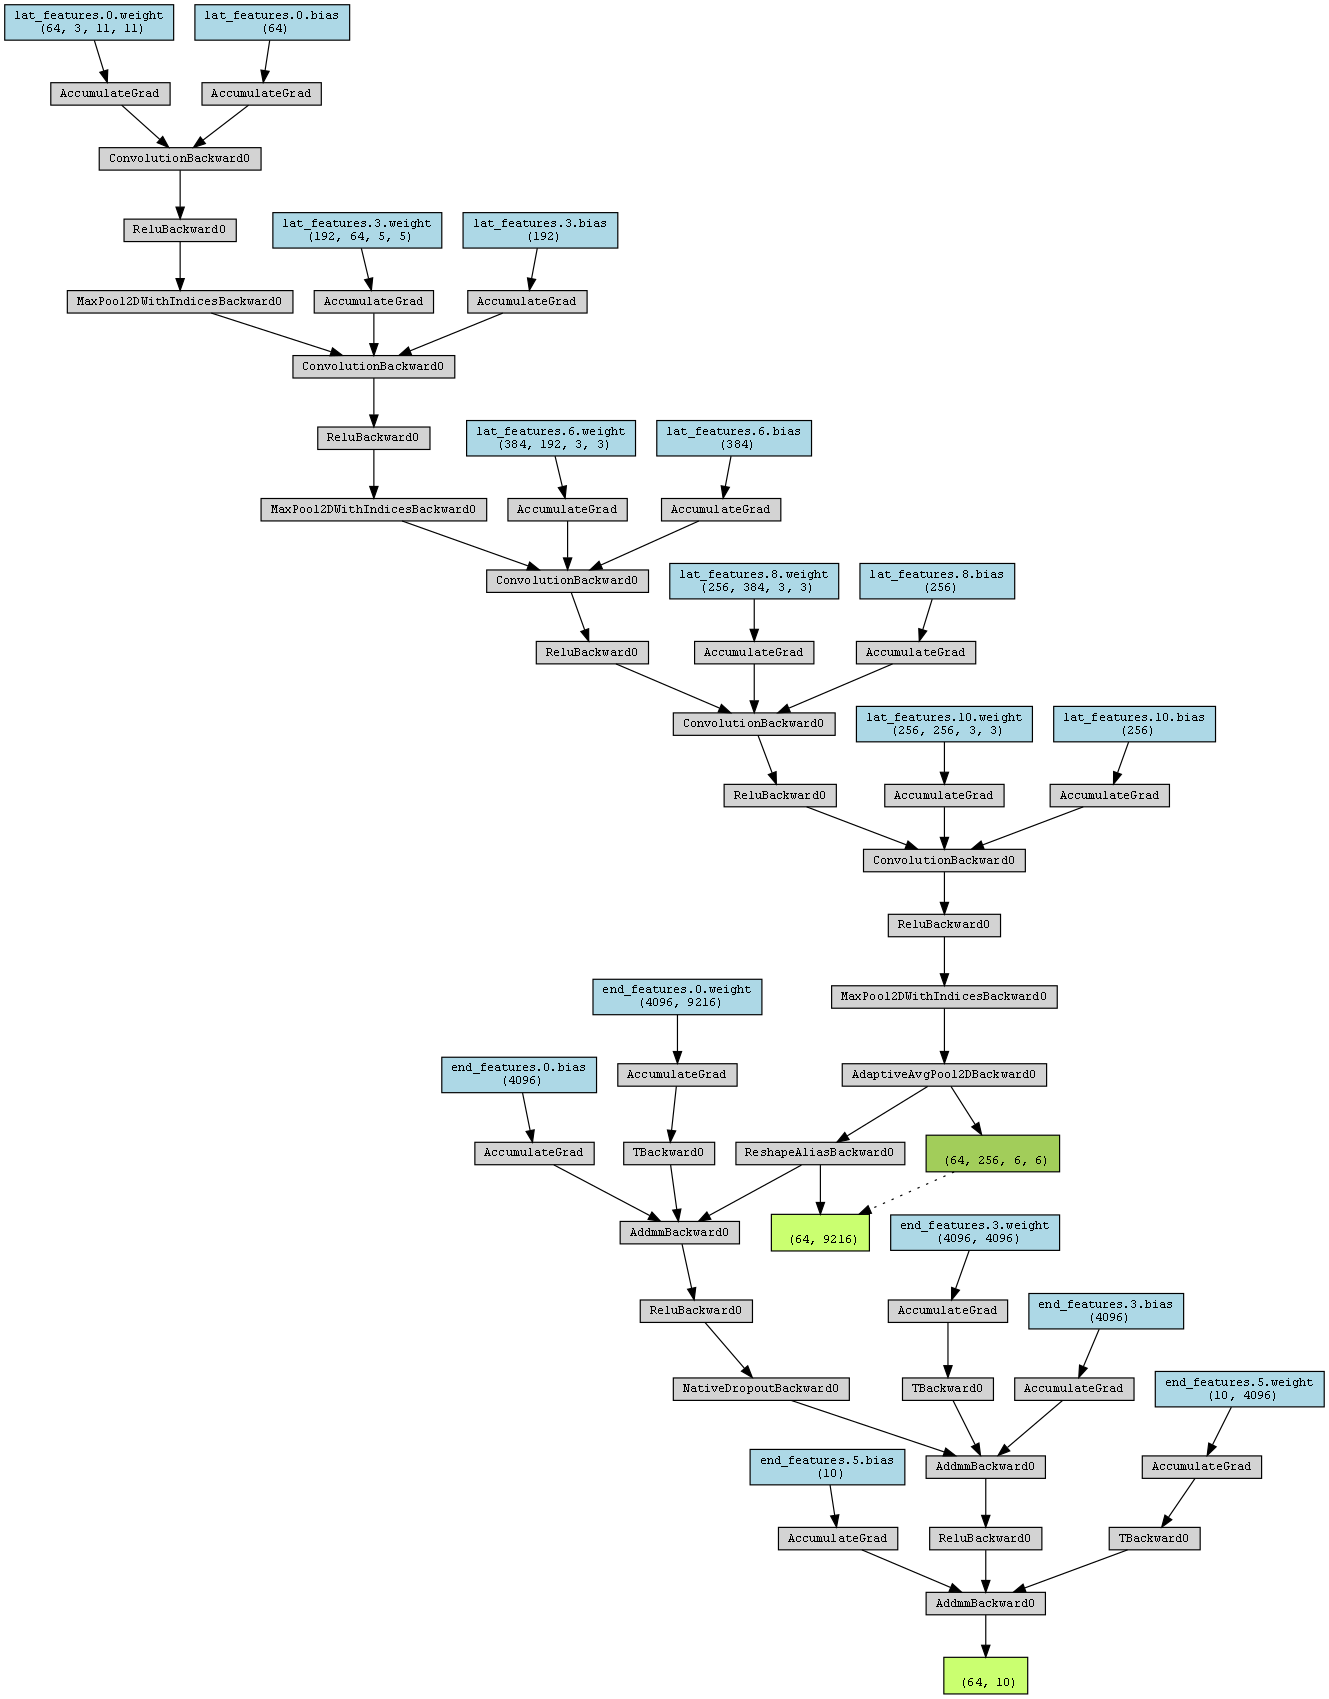
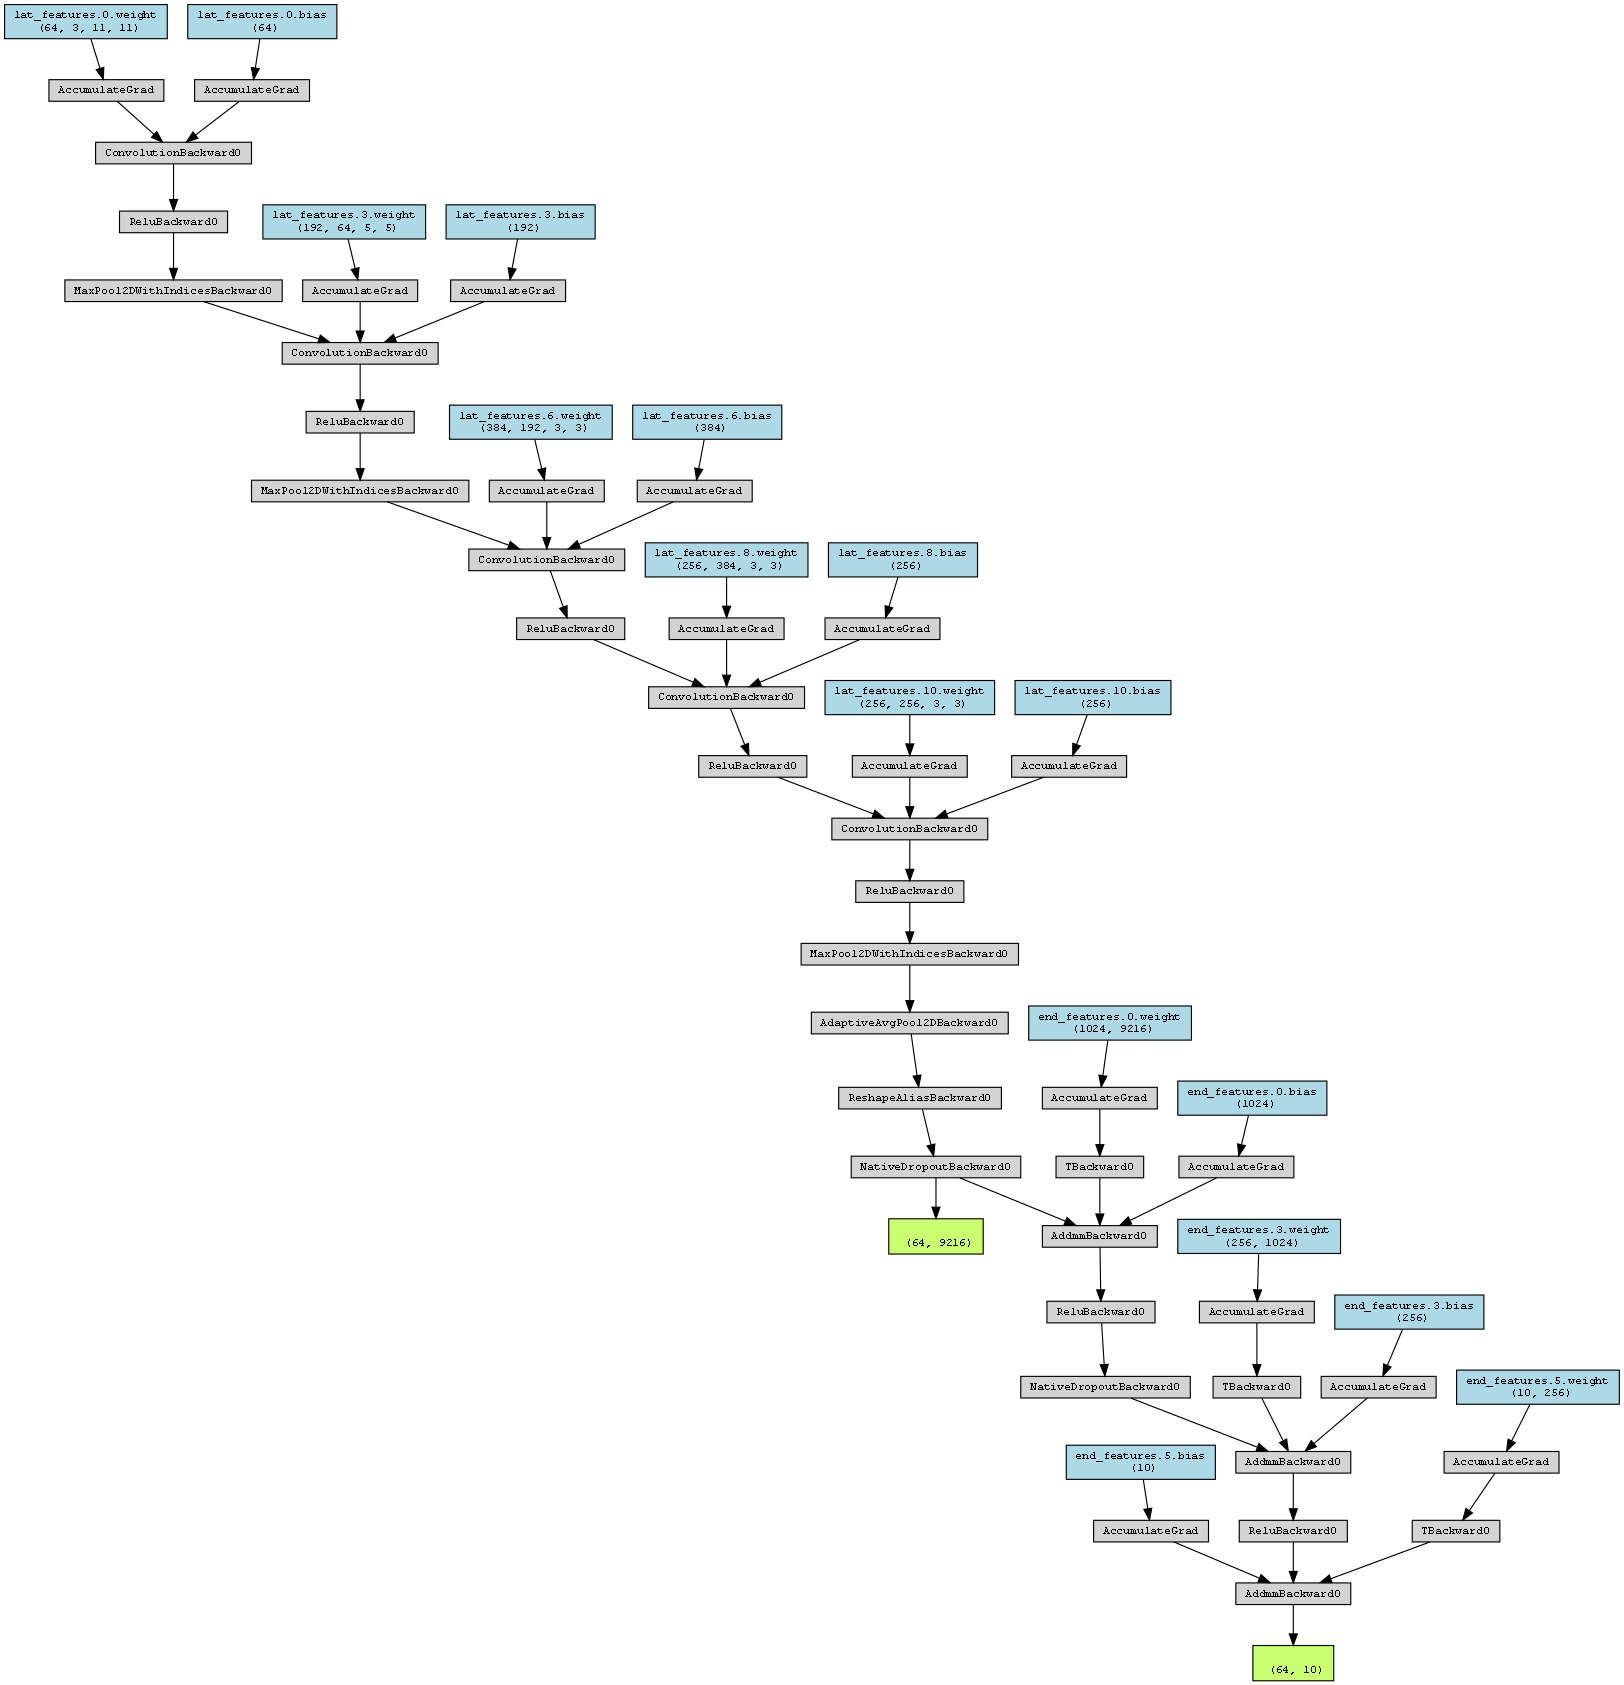
Remove eval statements.

Changed region(s): [[0.0, 0.0, 1.0, 1.0]]

diff --git a/src/utils.py b/src/utils.py
@@ -157,4 +157,6 @@ def render_model(lat_mb_x, model, mb_x, train_exp_counter):
             + [("mb_x", mb_x)]
             + ([] if train_exp_counter == 0 else [("lat_mb_x", lat_mb_x)])
         ),
-    ).render(f"torchviz_output_exp{train_exp_counter}", format="png")
+    ).render(
+        f".assets/img/diagrams/torchviz_output_exp{train_exp_counter}", format="png"
+    )

diff --git a/src/strategies/latent_replay.py b/src/strategies/latent_replay.py
@@ -119,8 +119,6 @@ class LatentReplay(SupervisedTemplate):
         )
 
     def _before_training_exp(self, **kwargs):
-        self.model.eval()
-        self.model.end_features.train()
 
         # Freeze model backbone during subsequent experiences
         if self.clock.train_exp_counter > 0:
